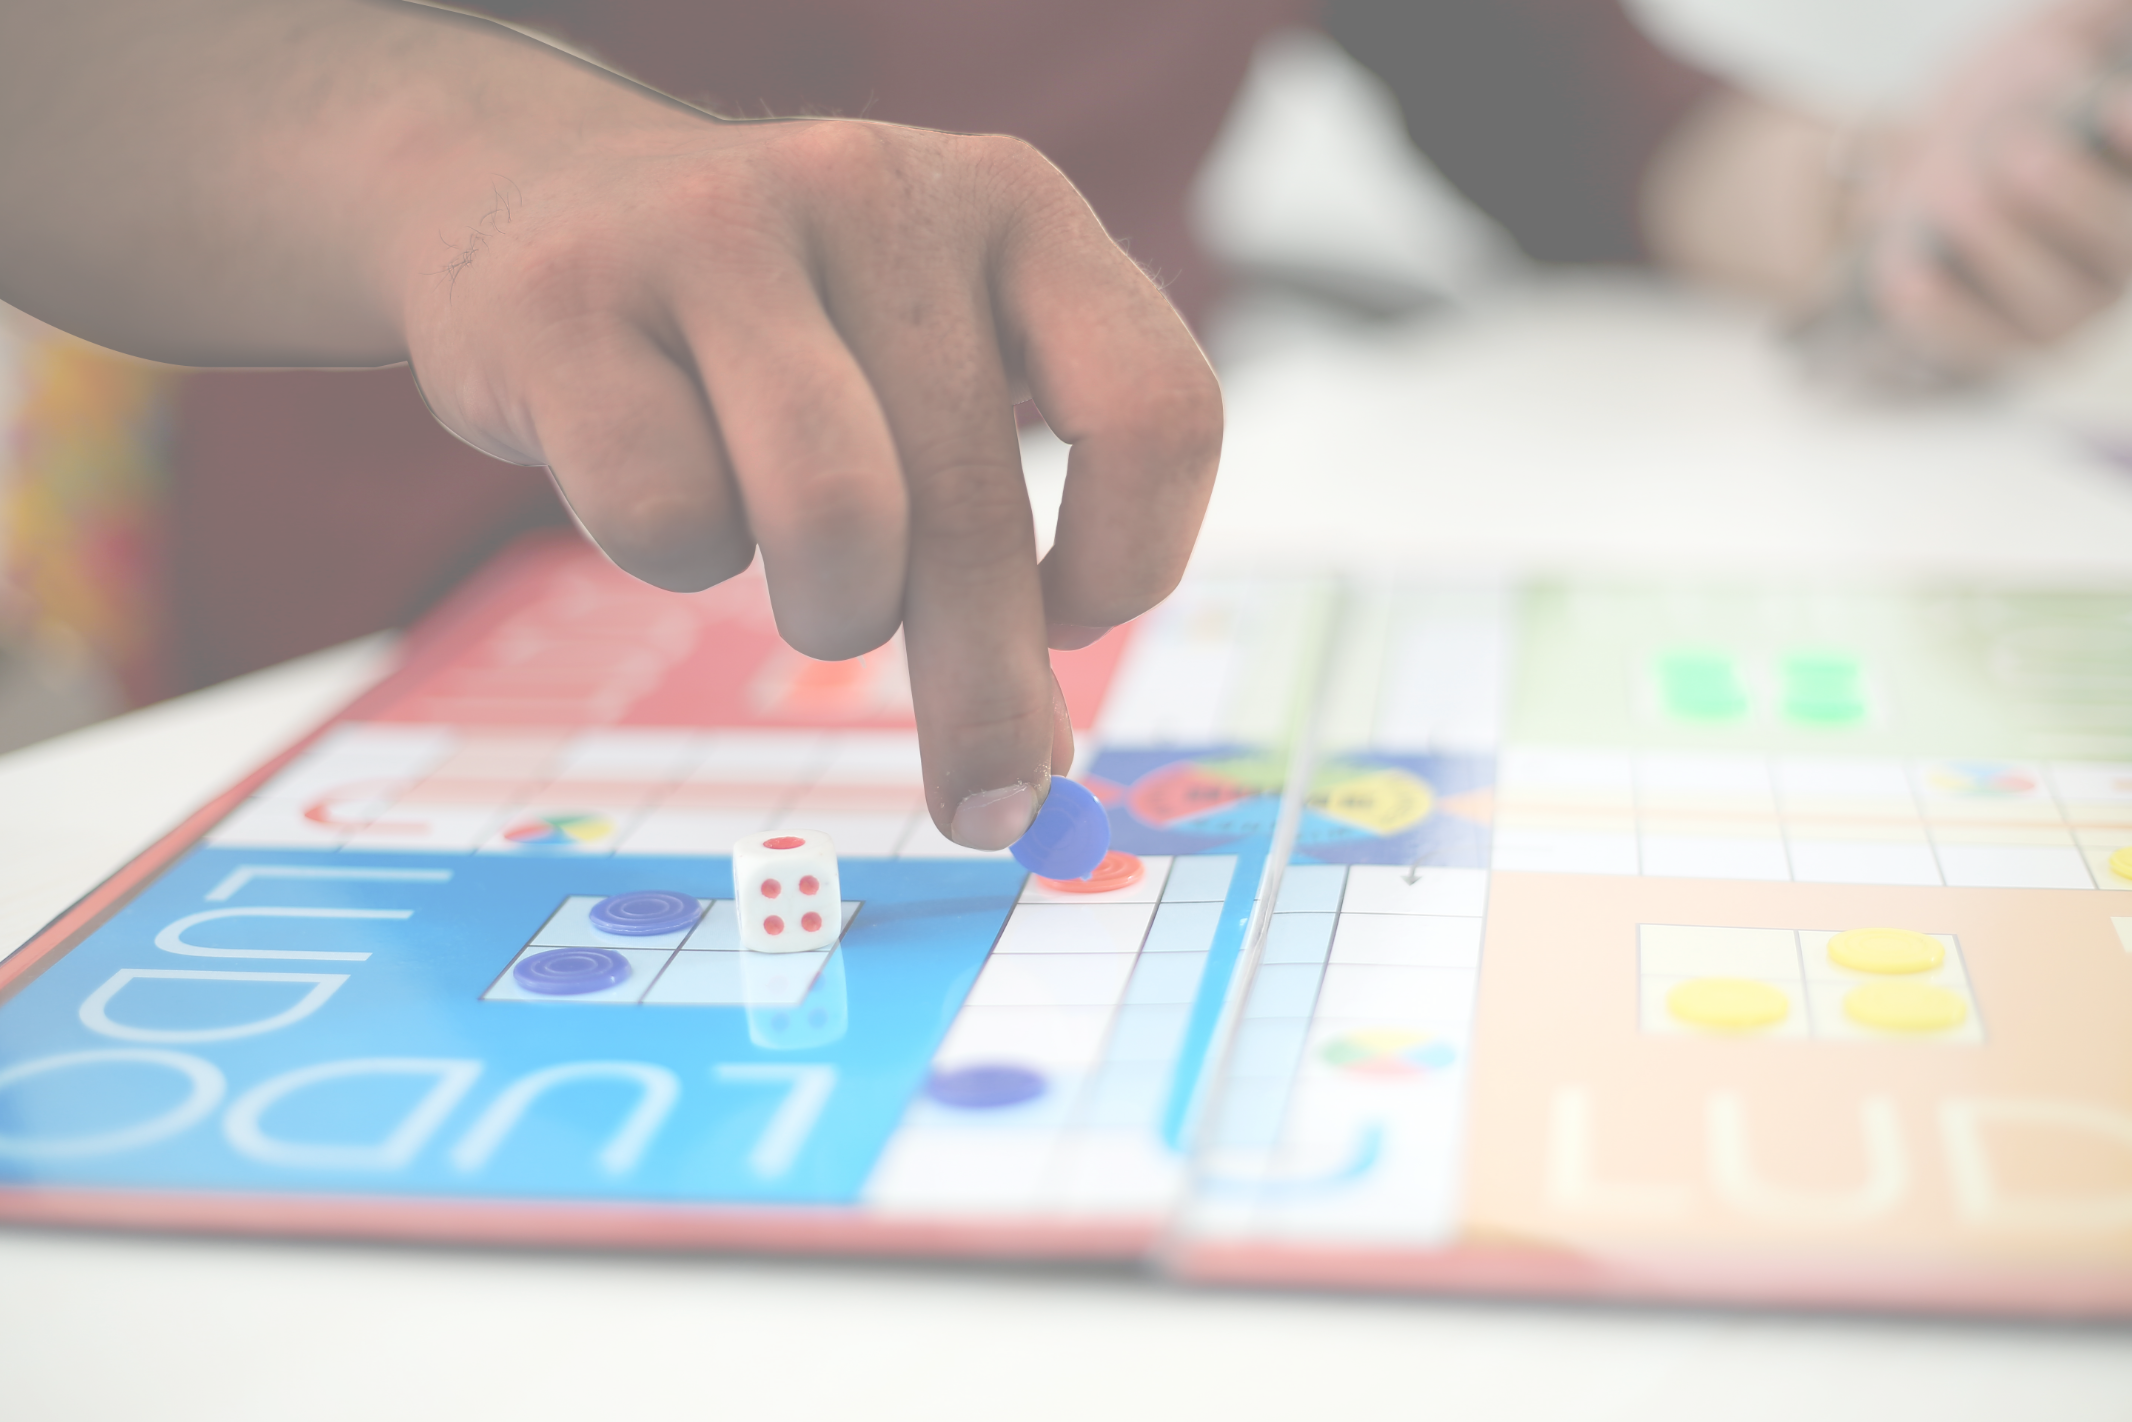
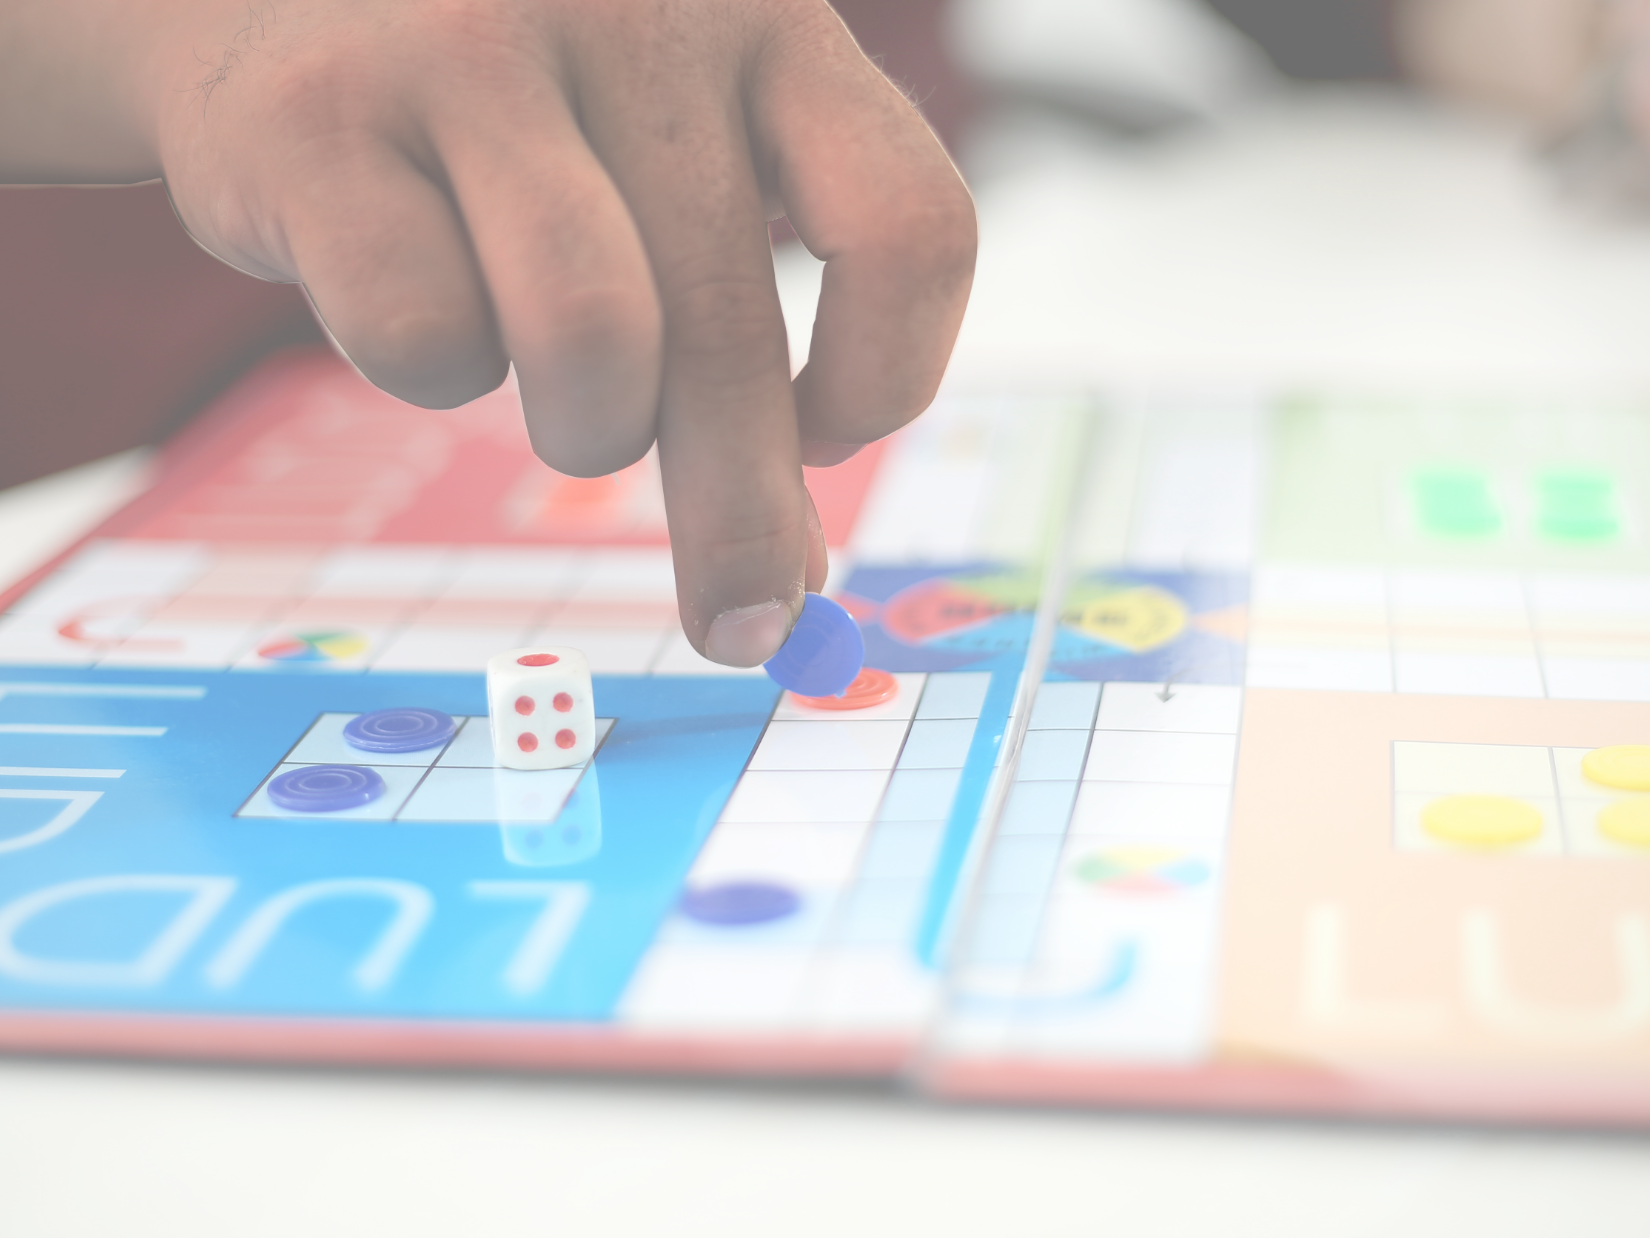
Removed slider images

diff --git a/src/components/Home/Hero/Hero.js b/src/components/Home/Hero/Hero.js
@@ -3,8 +3,9 @@ import styled from "styled-components";
 import color from "../../styles/colors";
 import breakPoints from "../../styles/breakpoints";
 import Background from "../../assets/svg/WavyHeader.svg";
-import slider2BG from "../../assets/img/slider_2_BG.png";
-import slider3BG from "../../assets/img/slider_3_BG.png";
+import slider1 from "../../assets/img/slider_1.png";
+import slider2BG from "../../assets/img/slider_2_BG_1.png";
+import slider3BG from "../../assets/img/slider_3_BG_1.png";
 
 const HeroWrapper = styled.div`
   height: 87vh;
@@ -64,6 +65,14 @@ const Image = styled.img`
   /* height: 94.4vh; */
   width: 100%;
   object-fit: contain;
+`;
+
+const SliderImage = styled.img`
+  position: absolute;
+  top: 10%;
+  left: 50%;
+
+  width: 50%;
 `;
 
 const Button = styled.button`
@@ -141,11 +150,10 @@ export default function Hero() {
                 alt="First slide"
               />
               <div
-                className="text-center"
                 style={{
                   position: "absolute",
                   top: "50%",
-                  left: "50%",
+                  left: "32%",
                   zIndex: "2000",
                   transform: `translate(-50%, -50%)`
                 }}
@@ -156,15 +164,16 @@ export default function Hero() {
                   to the moment
                 </ParagraphOne>
               </div>
+              <SliderImage className="d-block" src={slider1} alt="User" />
             </div>
           </div>
-          <div className="carousel-item">
+          {/* <div className="carousel-item">
             <div style={{ position: "relative" }}>
               <Image
-                className="d-block w-100"
+                className="d-block"
+                style={{ width: "100%" }}
                 src={slider2BG}
                 alt="Second slide"
-                style={{ marginTop: "-19.5rem" }}
               />
               <div
                 className="text-center"
@@ -173,7 +182,7 @@ export default function Hero() {
                   top: "50%",
                   left: "50%",
                   zIndex: "2000",
-                  transform: `translate(-50%, 0%)`
+                  transform: `translate(-50%, -50%)`
                 }}
               >
                 <HeadingTwo className="hero__title">
@@ -188,12 +197,7 @@ export default function Hero() {
           </div>
           <div className="carousel-item">
             <div style={{ position: "relative" }}>
-              <Image
-                className="d-block w-100"
-                src={slider3BG}
-                alt="Third slide"
-                style={{ marginTop: "-25rem" }}
-              />
+              <Image className="d-block" src={slider3BG} alt="Third slide" />
               <div
                 className="text-center"
                 style={{
@@ -201,7 +205,7 @@ export default function Hero() {
                   top: "50%",
                   left: "50%",
                   zIndex: "2000",
-                  transform: `translate(-50%, 0%)`
+                  transform: `translate(-50%, -50%)`
                 }}
               >
                 <HeadingTwo className="hero__title">
@@ -210,7 +214,7 @@ export default function Hero() {
                 <ParagraphOne>You go lick stew chop rice</ParagraphOne>
               </div>
             </div>
-          </div>
+          </div> */}
         </div>
         <a
           className="carousel-control-prev"
